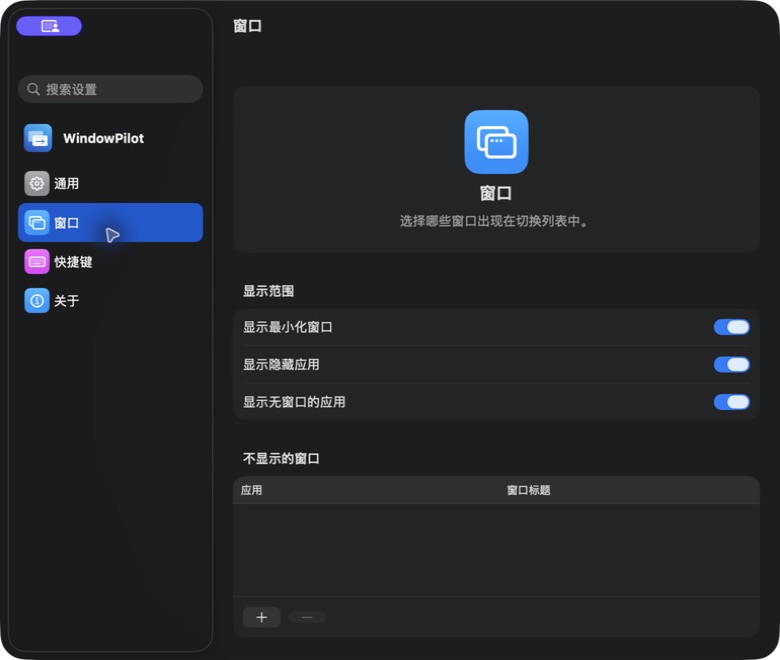
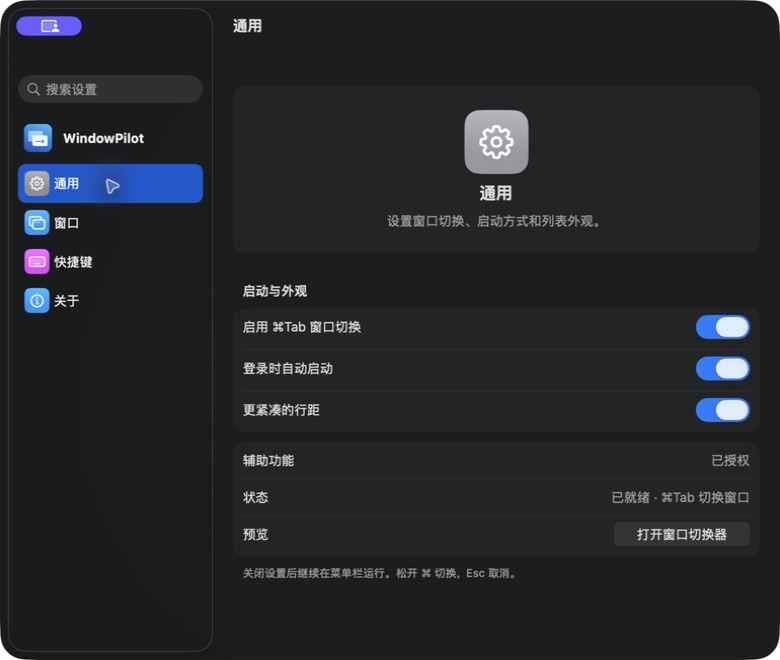
Document verified GitHub upgrade and refresh settings screenshots

diff --git a/VALIDATION.md b/VALIDATION.md
@@ -1,6 +1,22 @@
 # Validation
 
-Version 1.3.1: 28 tests passed locally with Thread Sanitizer (22 core tests and 6 native-window cases). `scripts/test.sh` isolates each AppKit lifecycle case in a fresh process and requires a complete test summary; an early exit without test completion fails the run.
+Version 1.4.1: 28 tests passed locally with Thread Sanitizer (22 core tests and 6 native-window cases). `scripts/test.sh` isolates each AppKit lifecycle case in a fresh process and requires a complete test summary; an early exit without test completion fails the run.
+
+
+## GitHub automatic update, 2026-09-05
+
+Verified with the production GitHub Releases feed and Developer ID signed, notarized apps. An internal updater-enabled 1.4.0 (build 9) was installed once to bootstrap the test. Its update-check timestamp was cleared to trigger the normal scheduled check on the next launch; the 24-hour interval itself was not waited out.
+
+- At 15:40 local time, 1.4.0 automatically fetched the signed feed and downloaded the 1.4.1 DMG in the background. Sparkle logged valid EdDSA signatures for both feed and update.
+- Opening “检查更新…” showed **1.4.1 already downloaded and ready to install**. Choosing the native “安装并重启应用” button replaced the app in `/Applications` and relaunched it. No manual copy of 1.4.1 was used.
+- The application changed from 1.4.0 (9), PID 13245, to 1.4.1 (10), PID 13463. Its executable hash matched the published build; strict nested code-signature verification, stapled ticket validation and Gatekeeper assessment passed.
+- Accessibility remained authorized, the switcher reported ready, and login, compact rows, automatic checks and automatic downloads remained enabled.
+- A subsequent update check reported “WindowPilot 1.4.1是当前的最新版本。”
+- All four settings pages and the rule sheet were inspected. Text action buttons use equal label widths and native regular controls; add/remove icon buttons and sheet action pairs match. First opening the rule sheet now enables Add for its selected app, invalid regex disables it, and clearing the regex restores it. Test inputs were cancelled without saving a rule.
+
+The release feed and DMG were independently verified using CryptoKit and the embedded public key. Disposable tampering tests rejected a modified feed and modified payload. Signed production artifacts and the exact feed are hosted together in release `v1.4.1`; release code passed GitHub Actions run `33952887996`.
+
+![Automatically downloaded update ready for installation](docs/images/updater.png)
 
 The dynamic-height update was checked with 35 disposable fixture windows (`--window-count 35`). On a display with a 1410-point usable height, the overflowing panel stopped at 1128 points (80%). Filtering to 35 rows expanded to 1024 points without a scrollbar; narrowing to 9 results used 296 points, closing a selected fixture window shrank it to 268 points, and an empty search used 88 points. Deleting the unmatched query restored the list. The fixture was then quit through the selected-app action.
 
